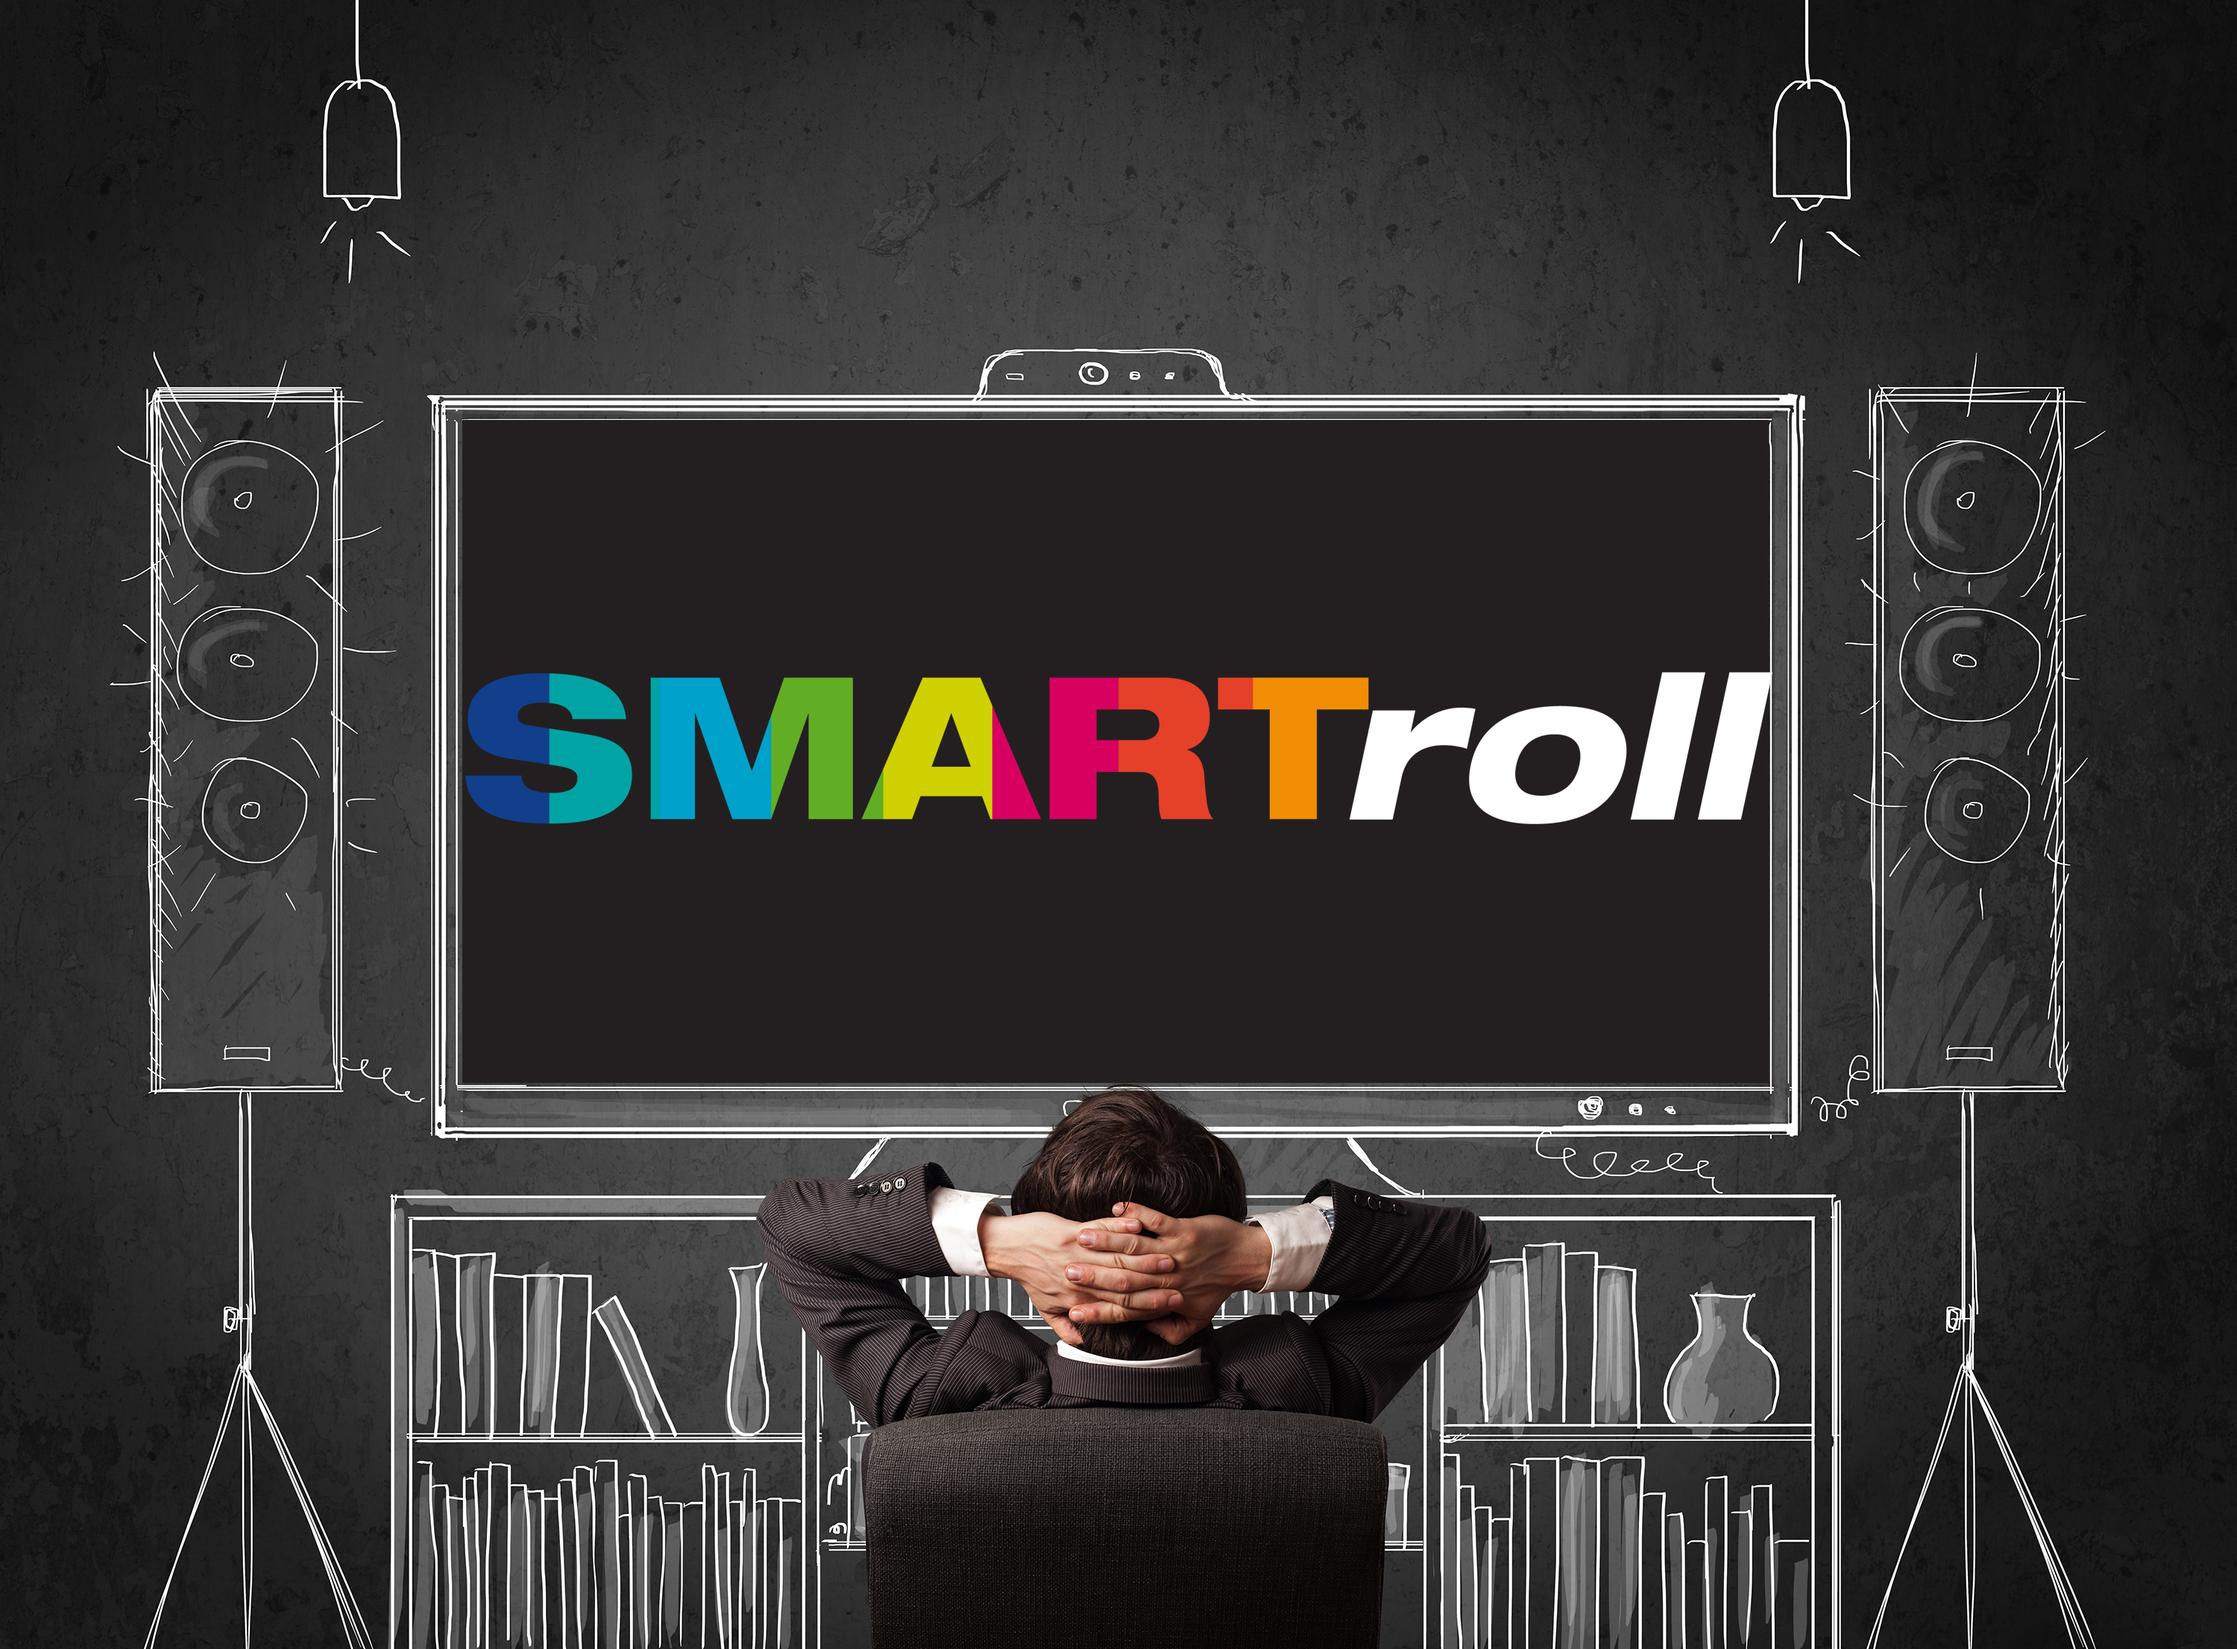
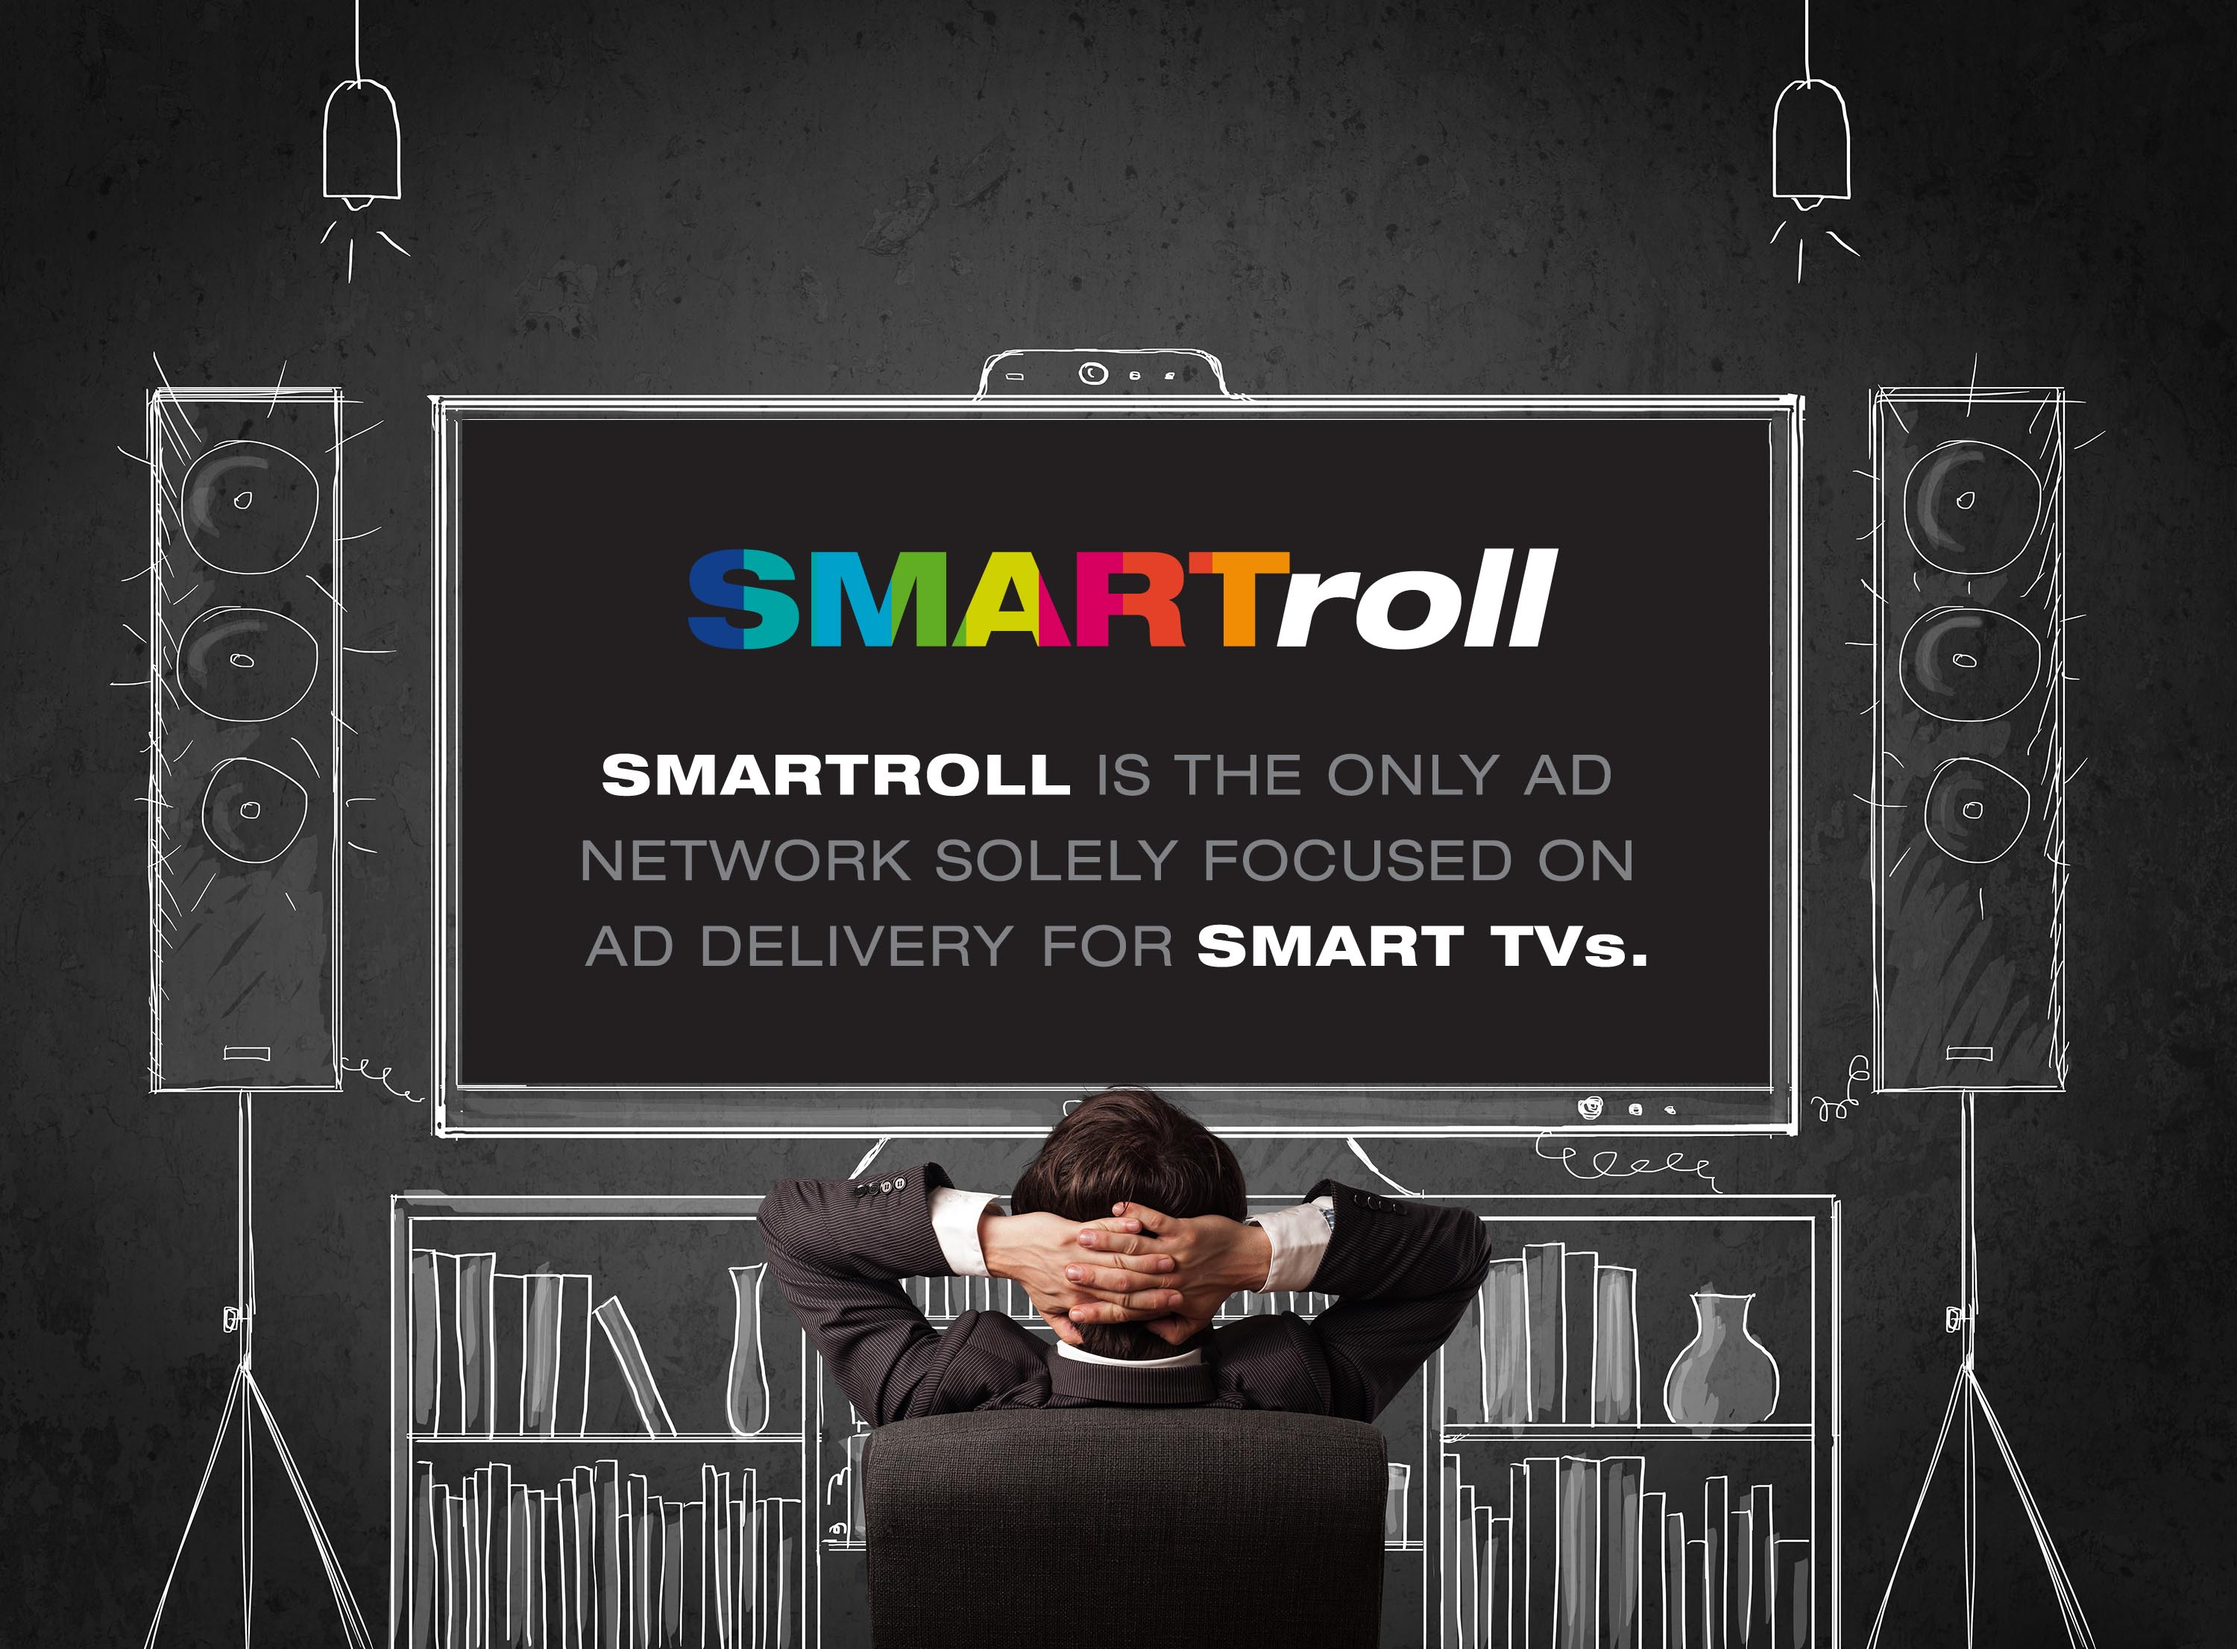
Final updates per Robin's Suggestions
Changes and updates per Robin's initial suggestions.  New layouts with
full width rows,  more spacing per Xavi, slightly changed wordings, and
new images.

Changed region(s): [[0.186, 0.3121, 0.806, 0.5305], [0.248, 0.5617, 0.744, 0.5929]]

diff --git a/index.html b/index.html
@@ -1,5 +1,5 @@
 <!DOCTYPE html>
-<html lang="en">
+<html lang="en" xmlns="http://www.w3.org/1999/html">
   <head>
     <meta charset="utf-8">
     <meta http-equiv="X-UA-Compatible" content="IE=edge">
@@ -45,150 +45,85 @@
   		</div><!--/container -->
   	</div><!--H -->
 
-  	<div class="container mtb">
-  		<div class="row">
-  			<div class="col-md-4 info">
-  				<i class="ion-ios-monitor"></i>
-  				<h4>Advertisers</h4>
-  				<p>Target your Ads to next generation Smart TV's, Connected Devices and Set-Top Boxes</p>
-  			</div><!--/col-md-4-->
-  			<div class="col-md-4 info">
-  				<i class="ion-ios-film-outline"></i>
-  				<h4>Publishers</h4>
-  				<p>Earn $$$ revenue on your content with the #1 fill rates in the industry for Connected TVs.</p>	
-  			</div><!--/col-md-4-->
-  			<div class="col-md-4 info">
-  				<i class="ion-ios-telephone-outline"></i>
-  				<h4>Focused on Smart TV</h4>
-  				<p>The only Ad network 100% focused on Ad delivery for Smart TVs and Set-Top Boxes.</p>
-  			</div><!--/col-md-4-->
-  		
-  		</div><!--/row -->
-  	</div><!--/container -->
+    <!--  ********** HEADER ANCHOR TEXT ********** -->
+      <div>
+          <div class="bg-mediakit-lightgrey centered">
+              <div class="section_space_20">
+                  <p class="header-anchor nopadding">
+                    It's the same <strong>DEPENDABLE</strong> concept you are already familiar with on broadcast and cable. <br/>
+                    But now, it's even <strong>BETTER</strong> and <strong>OPTIMIZED</strong> for <em>Connected TVs!</em>
+                  </p>
+
+               </div>
+          </div>
+      </div><!--/container -->
+
+
+
 
       <!-- ********** SECOND PART - SMART TV IS TV IMAGE ********** -->
-      <div id="smart-tv-is-tv">
-          <div class="row nopadding">
-              <div class="col-md-12 centered">
+      <div>
+          <div class="container">
+              <div class="col-md-12 centered section_space_20">
                   <img src="assets/img/smart-tv-is-tv.png" alt="" class="img-responsive aligncenter">
               </div>
           </div><!--/row -->
       </div><!--/container -->
 
-  	<!-- ********** FIRST PART - IMAGE & TEXT ********** -->
-  	<div id="viewability">
-  		<div class="row nopadding">
-  			<div class="col-md-6 centered bg-mediakit-gray">
-				<img src="assets/img/viewability.png" alt="" class="img-responsive aligncenter">
-			</div>
-  			
-  			<div class="col-md-6 bg-color">
-				<h2>100% Viewability Guaranteed</h2>
-				<hr>
-  				<p class="mt">Connected and Smart TV advertising gives viewers a premium branding experience while they consume video content on their TVs. Smart TV's and Connected Devices have the highest Ad Viewability rates of any devices!</p>
-  			</div>
-  		</div><!--/row -->
-  	</div><!--/w01 -->
 
-    <!-- *********** ADD SMALL SPACE BETWEEN SECTIONS ********** -->
-    <div class="section_space">
-    </div>
- 
-  	<!-- ********** SECOND PART - TEXT & TARGET IMAGE ********** -->
+
+
+
+     <!--  ********** VIEWABILITY GUARANTEE ********** -->
+     <div>
+        <div class="bg-white">
+
+             <div class="col-md-12 nopadding centered bg-mediakit-black">
+                 <img src="assets/img/viewability-guarantee-wide.png" border="0" alt="100% Viewability Guarantee" class="img-responsive aligncenter">
+             </div>
+
+         </div>
+     </div><!--/container -->
+
+
+  	<!-- ********** TARGETING  ********** -->
   	<div id="targeting">
-  		<div class="row nopadding">
-	  		<div class="col-md-6">
-	  			<h2>Finally a Way to Target the Smart TV Audience</h2>
-	  			<hr>
-	  			<p class="mt">Consumers are cutting the cable cord faster than ever and that creates challenges for advertisers who depended on this audience.</p>
-	  			<p>Smart Roll solves this problem by serving ads on Smart TVs, Set-Top Boxes like Roku &amp; Android TV, and working with TV and Movie networks to get your commercials placed in their ad breaks.</p>
-	  			<p>It's the same dependable concept your already familiar with on broadcast and cable. But now, it's even better and optimized for Connected TVs!</p>
+  		<div class="row display-table">
+
+              <div class="col-md-6 bg-white bg-color display-cell">
+                  <img src="assets/img/target-bullseye.png" alt="" class="img-responsive aligncenter">
+              </div>
+
+	  		<div class="col-md-6 display-cell">
+
+	  			<p>Consumers are cutting the cable cord faster than ever and that creates challenges for advertisers who depended on this audience.</p>
+	  			<p><strong>Smart Roll</strong> solves this problem by serving ads on Smart TVs, Set-Top Boxes like Roku &amp; Android TV, and working with TV and Movie networks to get your commercials placed in their ad breaks.</p>
+
 	  		</div>
-	  		
-	  		<div class="col-md-6 bg-mediakit-gray bg-color centered">
-	  			<img src="assets/img/target-bullseye.png" alt="" class="img-responsive aligncenter">
-	  		</div>
+
   		</div><!--/row -->
   	</div><!--/container -->
 
-    <!-- *********** ADD SMALL SPACE BETWEEN SECTIONS ********** -->
-    <div class="section_space">
-    </div>
-	
+
 	<!-- ********** SECOND PART - SMART TV ADVERTISING STATS ********** -->
   	<div id="Advertising">
-  		<div class="row nopadding">
-	  		<div class="col-md-6 bg-mediakit-gray bg-color centered">
+  		<div class="row display-table">
+	  		<div class="col-md-6 bg-black centered display-cell">
 	  			<img src="assets/img/ad-growth-chart.png" alt="" class="img-responsive aligncenter">
 	  		</div>
 			
-			<div class="col-md-6">
-	  			<h2>Smart TV Advertising</h2>
-	  			<hr>
-	  			<p>
-					<i class="ion-android-checkbox"></i>  Guaranteed Viewability<br />
-					<i class="ion-android-checkbox"></i>  Real time stats &amp; analytics showing reach and effectiveness of campaigns<br />
-					<i class="ion-android-checkbox"></i>  Target viewers based on their interests and geo-locations<br />
-					<i class="ion-android-checkbox"></i>  Reach <strong>innovative</strong> “cord-cutters” who are leaving cable and satellite TV, <strong>including coveted Millennial audiences</strong><br />
+			<div class="col-md-6 bg-mediakit-blue display-cell">
+	  			<p class="white-font">
+					<i class="ion-record small"></i> <strong>Guaranteed</strong> Viewability<br />
+                      <i class="ion-record small"></i> Real time stats &amp; analytics showing reach and effectiveness of campaigns<br />
+                      <i class="ion-record small"></i> Target viewers based on their interests and geo-locations<br />
+                      <i class="ion-record small"></i> Reach <strong>innovative</strong> “cord-cutters” who are leaving cable and satellite TV, <strong>including coveted Millennial audiences</strong><br />
 				</p>	
 			</div>
 	  		
   		</div><!--/row -->
   	</div><!--/container -->
-    <!-- *********** ADD SMALL SPACE BETWEEN SECTIONS ********** -->
-    <div class="section_space">
-    </div>
-  	
-  	
-  	<!-- ********** THIRD PART - COLOR PARTS ********** -->
-  	<div id="w01">
-  		<div class="row nopadding centered">
-	  		<div class="col-md-4 bg-color bg-jelly squares">
-	  			<h3>Advertisers</h3>
-	  			<i class="ion-speakerphone"></i>
-	  			<p>With dozens of different Movie, TV, and video content publishers already using Smart Roll, there is a large captive audience for your brand messaging.</p>
-	  		</div><!--/col-md-4 -->
-	  		
-	  		<div class="col-md-4 bg-color bg-turqoise squares">
-	  			<h3>Publishers</h3>
-	  			<i class="ion-ios-monitor-outline"></i>
-	  			<p>When it comes to Smart TV's, Connected Devices and Set-Top Boxes, we offer the best fill rates, guaranteed for dependable revenue streams every month.</p>
-	  		</div><!--/col-md-4 -->
-	  		
-	  		<div class="col-md-4 bg-color bg-green squares">
-	  			<h3>Growth of Smart TV's</h3>
-	  			<i class="ion-arrow-graph-up-right"></i>
-	  			<p>Smart TV's is the fastest growing segement in the industry today.  As users watch more content through Smart TVs and independent services like Hulu, Crackle, BIGSTAR, Netflix and more, Smart TV's are quickly becoming the #1 destination for Advertisers.  </p>
-	  		</div><!--/col-md-4 -->
-	  		
-  		</div><!--/row -->
-  	</div><!--/w01 -->
-  	
-  	<!-- ********** FOURTH PART - PRICING ********** -->
-    <!-- Removed - 4th part not needed -->
 
-  	
-
-  	<!-- ********** FIFTH PART - SEPARATOR ********** -->
-    <!--
-  	<div id="sep">
-  		<div class="container">
-	  		<div class="row centered">
-	  			<h1>Want to make money with Smart TVs? <br/>Contact Us To Learn More</h1>
-	  			<div class="col-md-6 col-md-offset-3 mt">
-					<form role="form" action="register.php" method="post" enctype="plain"> 
-	    				<input type="email" name="email" class="subscribe-input" placeholder="Enter your e-mail address..." required>
-						<button class='btn btn-lg btn-download subscribe-submit' type="submit">Submit</button>
-					</form>
-	  			</div>
-	  		</div>
-  		</div>
-    -->
-    <!--/container -->
-    <!--
-  	</div>
-    -->
-    <!--/sep -->
   	
   	<!-- ********** SIXTH PART - FOOTER ********** -->
   	<div id="f">

diff --git a/assets/css/style.css b/assets/css/style.css
@@ -13,11 +13,12 @@
 
 /* Import fonts */
 @import url(http://fonts.googleapis.com/css?family=Lato:300,400,700,900);
+@import url(http://fonts.googleapis.com/css?family=Roboto:300,400,700,900);
 
 * { 
 	margin: 0;
 	padding: 0px;
-    font-family: 'Lato', sans-serif;
+    font-family: 'Roboto', sans-serif;
 } 
 body { 
 	background: #fff; 
@@ -26,7 +27,7 @@ body {
 }
 
 h1, h2, h3, h4, h5, h6 {
-    font-family: 'Lato', sans-serif;
+    font-family: 'Roboto', sans-serif;
 	font-weight: 300;
 }
 
@@ -34,12 +35,27 @@ h1, h2, h3, h4, h5, h6 {
 p { 
 	padding: 0; 
 	margin-bottom: 12px; 
-    font-family: 'Lato', sans-serif;
+    font-family: 'Roboto', sans-serif;
 	font-weight: 300;
 	font-size: 18px; 
 	line-height: 28px;
-	color: #666; 
+	color: #000;
 	margin-top: 10px; 
+}
+
+.white-font {
+    color: #FFF;
+}
+
+.header-anchor {
+    padding: 0;
+    margin-bottom: 12px;
+    font-family: 'Roboto', sans-serif;
+    font-weight: 400;
+    font-size: 22px;
+    color: #000;
+    line-height: 28px;
+    margin-top: 10px;
 }
 
 html,
@@ -232,6 +248,10 @@ input {
 .squares i {
 	font-size: 50px;
 }
+
+.bg-black {
+    background-color: #000000;
+}
 .bg-white {
 	background-color: #FFFFFF;
 }
@@ -260,7 +280,15 @@ input {
 }
 
 .bg-mediakit-blue {
-	background-color: #6cc5e9;
+	background-color: #00AEEF;
+}
+
+.bg-mediakit-lightgrey {
+    background-color: #F1F2F2;
+}
+
+.bg-mediakit-black {
+    background-color: #231f20;
 }
 
 .bg-yellow h2 {
@@ -268,6 +296,11 @@ input {
 	margin-top: 0px;
 	margin-left: 15px;
 	margin-right: 15px;
+}
+
+.valign-middle {
+    vertical-align: middle;
+    display: inline-block;
 }
 
 /* Background Image */
@@ -329,8 +362,18 @@ input {
 	padding: 0px !important;
 }
 
-.section_space {
+.section_space_mini {
     padding: 2px;
+}
+
+.section_space_20 {
+    padding-top: 20px;
+    padding-bottom: 20px;
+}
+
+.section_space_40 {
+    padding-top: 40px;
+    padding-bottom: 40px;
 }
 
 /* Prices */
@@ -405,4 +448,15 @@ input {
 #f p {
 	color: white;
 	text-align: center;
+}
+
+.display-table{
+    display: table;
+    table-layout: fixed;
+}
+
+.display-cell{
+    display: table-cell;
+    vertical-align: middle;
+    float: none;
 }
